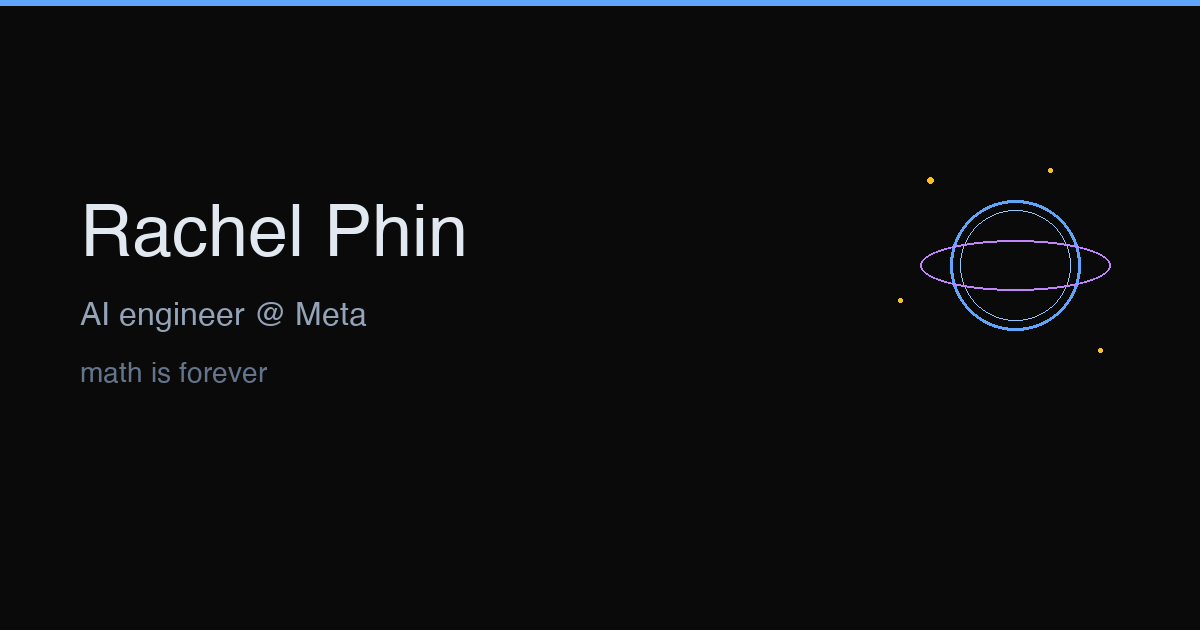
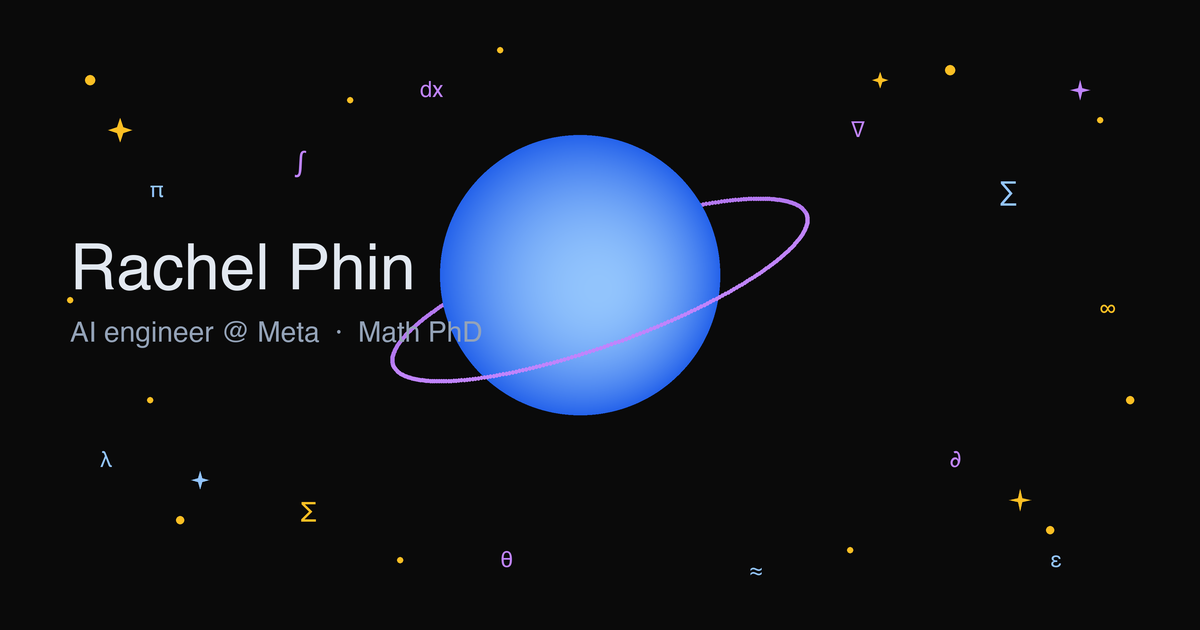
high-res og image with math symbols, remove bio text

diff --git a/index.html b/index.html
@@ -316,7 +316,7 @@
     <section class="hero">
         <h1>rachel phin</h1>
         <p class="role">AI engineer @ Meta</p>
-        <p class="bio">math is forever</p>
+        
         <div class="hero-links">
             <a href="#" onclick="window.location.href='mailto:'+['me','rachelphin.com'].join('@');return false;">email</a>
             <a href="https://www.linkedin.com/in/rachel-phin" target="_blank">linkedin</a>
